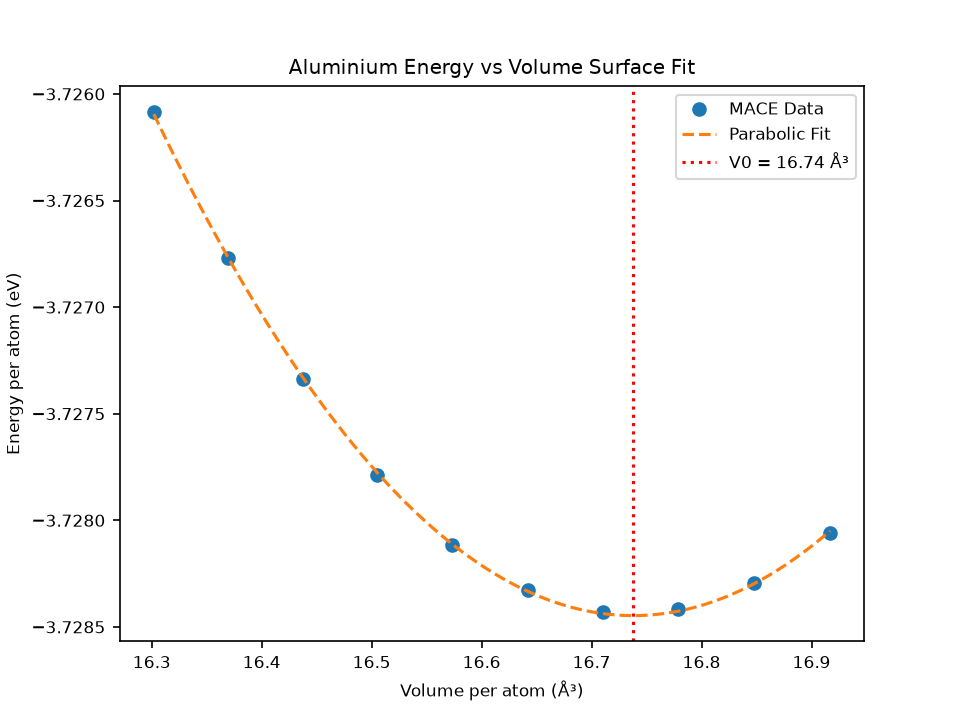
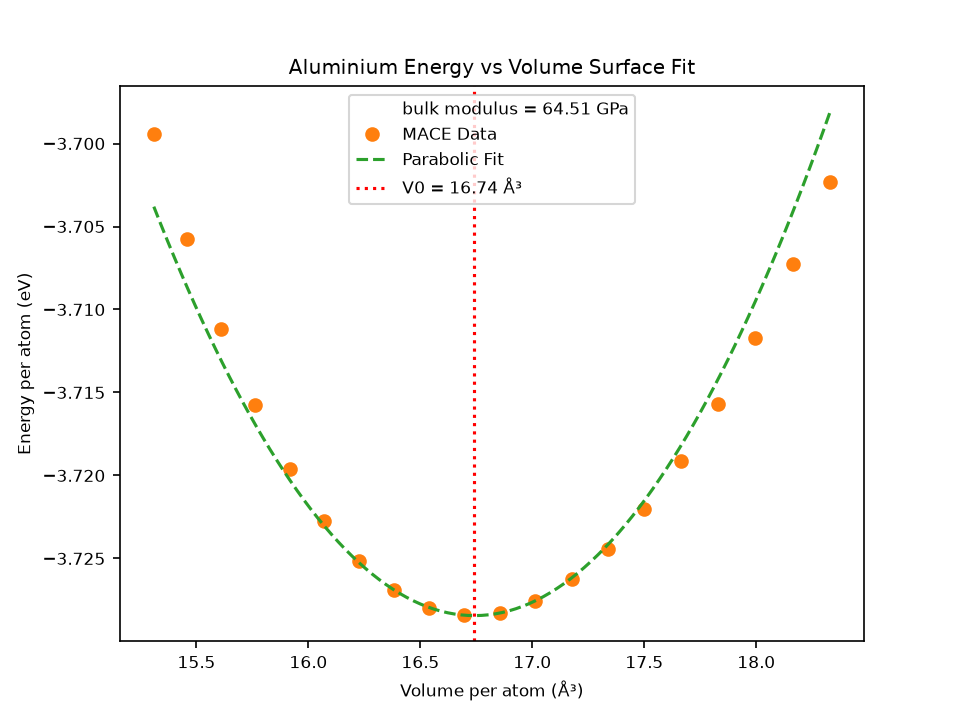
commit

diff --git a/MACE_test1.py b/MACE_test1.py
@@ -5,32 +5,74 @@ import matplotlib.pyplot as plt
 from mace.calculators import mace_mp
 
 calc = mace_mp(model="medium")
-volumes, energies = [], []
 
-for a in np.linspace(4.025, 4.075, 10):
-    atoms = bulk("Al", "fcc", a=a, cubic=True)
-    atoms.calc = calc
-    volumes.append(atoms.get_volume() / len(atoms))
-    energies.append(atoms.get_potential_energy() / len(atoms))
+def run_sweep(element, calc, a_min, a_max, n_points):
+    a_vals = np.linspace(a_min, a_max, n_points)
+    volumes, energies = [], []
 
-c2, c1, c0 = np.polyfit(volumes, energies, 2)
-V0 = -c1 / (2 * c2)
-curvature = 2 * c2
-v_fit = np.linspace(min(volumes), max(volumes), 100)
-e_fit = c2 * v_fit**2 + c1 * v_fit + c0
+    for a in a_vals:
+        atoms = bulk(element, "fcc", a=a, cubic=True)
+        atoms.calc = calc
+        volumes.append(atoms.get_volume() / len(atoms))
+        energies.append(atoms.get_potential_energy() / len(atoms))
 
-plt.plot(volumes, energies, "o", label="MACE Data")
+    return a_vals, np.array(volumes), np.array(energies)
+
+def optimal_fit(volumes, energies):
+    min_idx = np.argmin(energies)
+    best_rmse = float("inf")
+    best_results = None
+    # tests different windows for the fit
+    for radius in [2, 3, 4, 5]:
+        start = max(0, min_idx - radius)
+        end = min(len(energies), min_idx + radius + 1)
+
+        v_win = volumes[start:end]
+        e_win = energies[start:end]
+
+        if len(v_win) < 5:
+            continue
+
+        # quadratic fit
+        c2, c1, c0 = np.polyfit(v_win, e_win, 2)
+
+        # Calculates RMSE
+        e_pred = c2 * v_win**2 + c1 * v_win + c0
+        rmse = np.sqrt(np.mean((e_win - e_pred) ** 2))
+        # calculates bulk modulus
+        if rmse < best_rmse:
+            best_rmse = rmse
+            v0 = -c1 / (2 * c2)
+            curvature = 2 * c2
+            b_gpa = v0 * curvature * 160.21766
+            best_results = {
+                "v0": v0,
+                "b_gpa": b_gpa,
+                "rmse": rmse,
+                "points": len(v_win),
+                "c0": c0,
+                "c1": c1,
+                "c2": c2
+            }
+
+    return best_results
+
+a_coarse, v_coarse, e_coarse = run_sweep("Al", calc, 3, 6, 300)
+min_idx = np.argmin(e_coarse)
+a_min_energy = a_coarse[min_idx]
+a_fine, v_fine, e_fine = run_sweep("Al", calc, a_min_energy*0.97, a_min_energy*1.03, 20)
+results = optimal_fit(v_fine, e_fine)
+
+v_fit = np.linspace(min(v_fine), max(v_fine), 100)
+e_fit = results["c2"] * v_fit**2 + results["c1"] * v_fit + results["c0"]
+
+label_text = "bulk modulus = {:.2f} GPa".format(results["b_gpa"])
+plt.plot(v_fine, e_fine, "o", label="MACE Data")
 plt.plot(v_fit, e_fit, "--", label="Parabolic Fit")
-plt.axvline(V0, color="red", linestyle=":", label=f"V0 = {V0:.2f} Å³")
+plt.axvline(results["v0"], color="red", linestyle=":", label=f"V0 = {results['v0']:.2f} Å³")
+plt.plot([], [], " ", label=label_text)
 plt.xlabel("Volume per atom (Å³)")
 plt.ylabel("Energy per atom (eV)")
 plt.title("Aluminium Energy vs Volume Surface Fit")
 plt.legend()
 plt.savefig("aluminium_fit.png", dpi=150)
-
-print(f"Equilibrium Volume (V0): {V0:.4f} Å³")
-print(f"Curvature (d²E/dV²):     {curvature:.4f} eV/Å⁶")
-
-bulk_modulus_eV = V0 * curvature
-bulk_modulus_GPa = bulk_modulus_eV * 160.21766
-print(bulk_modulus_GPa)
